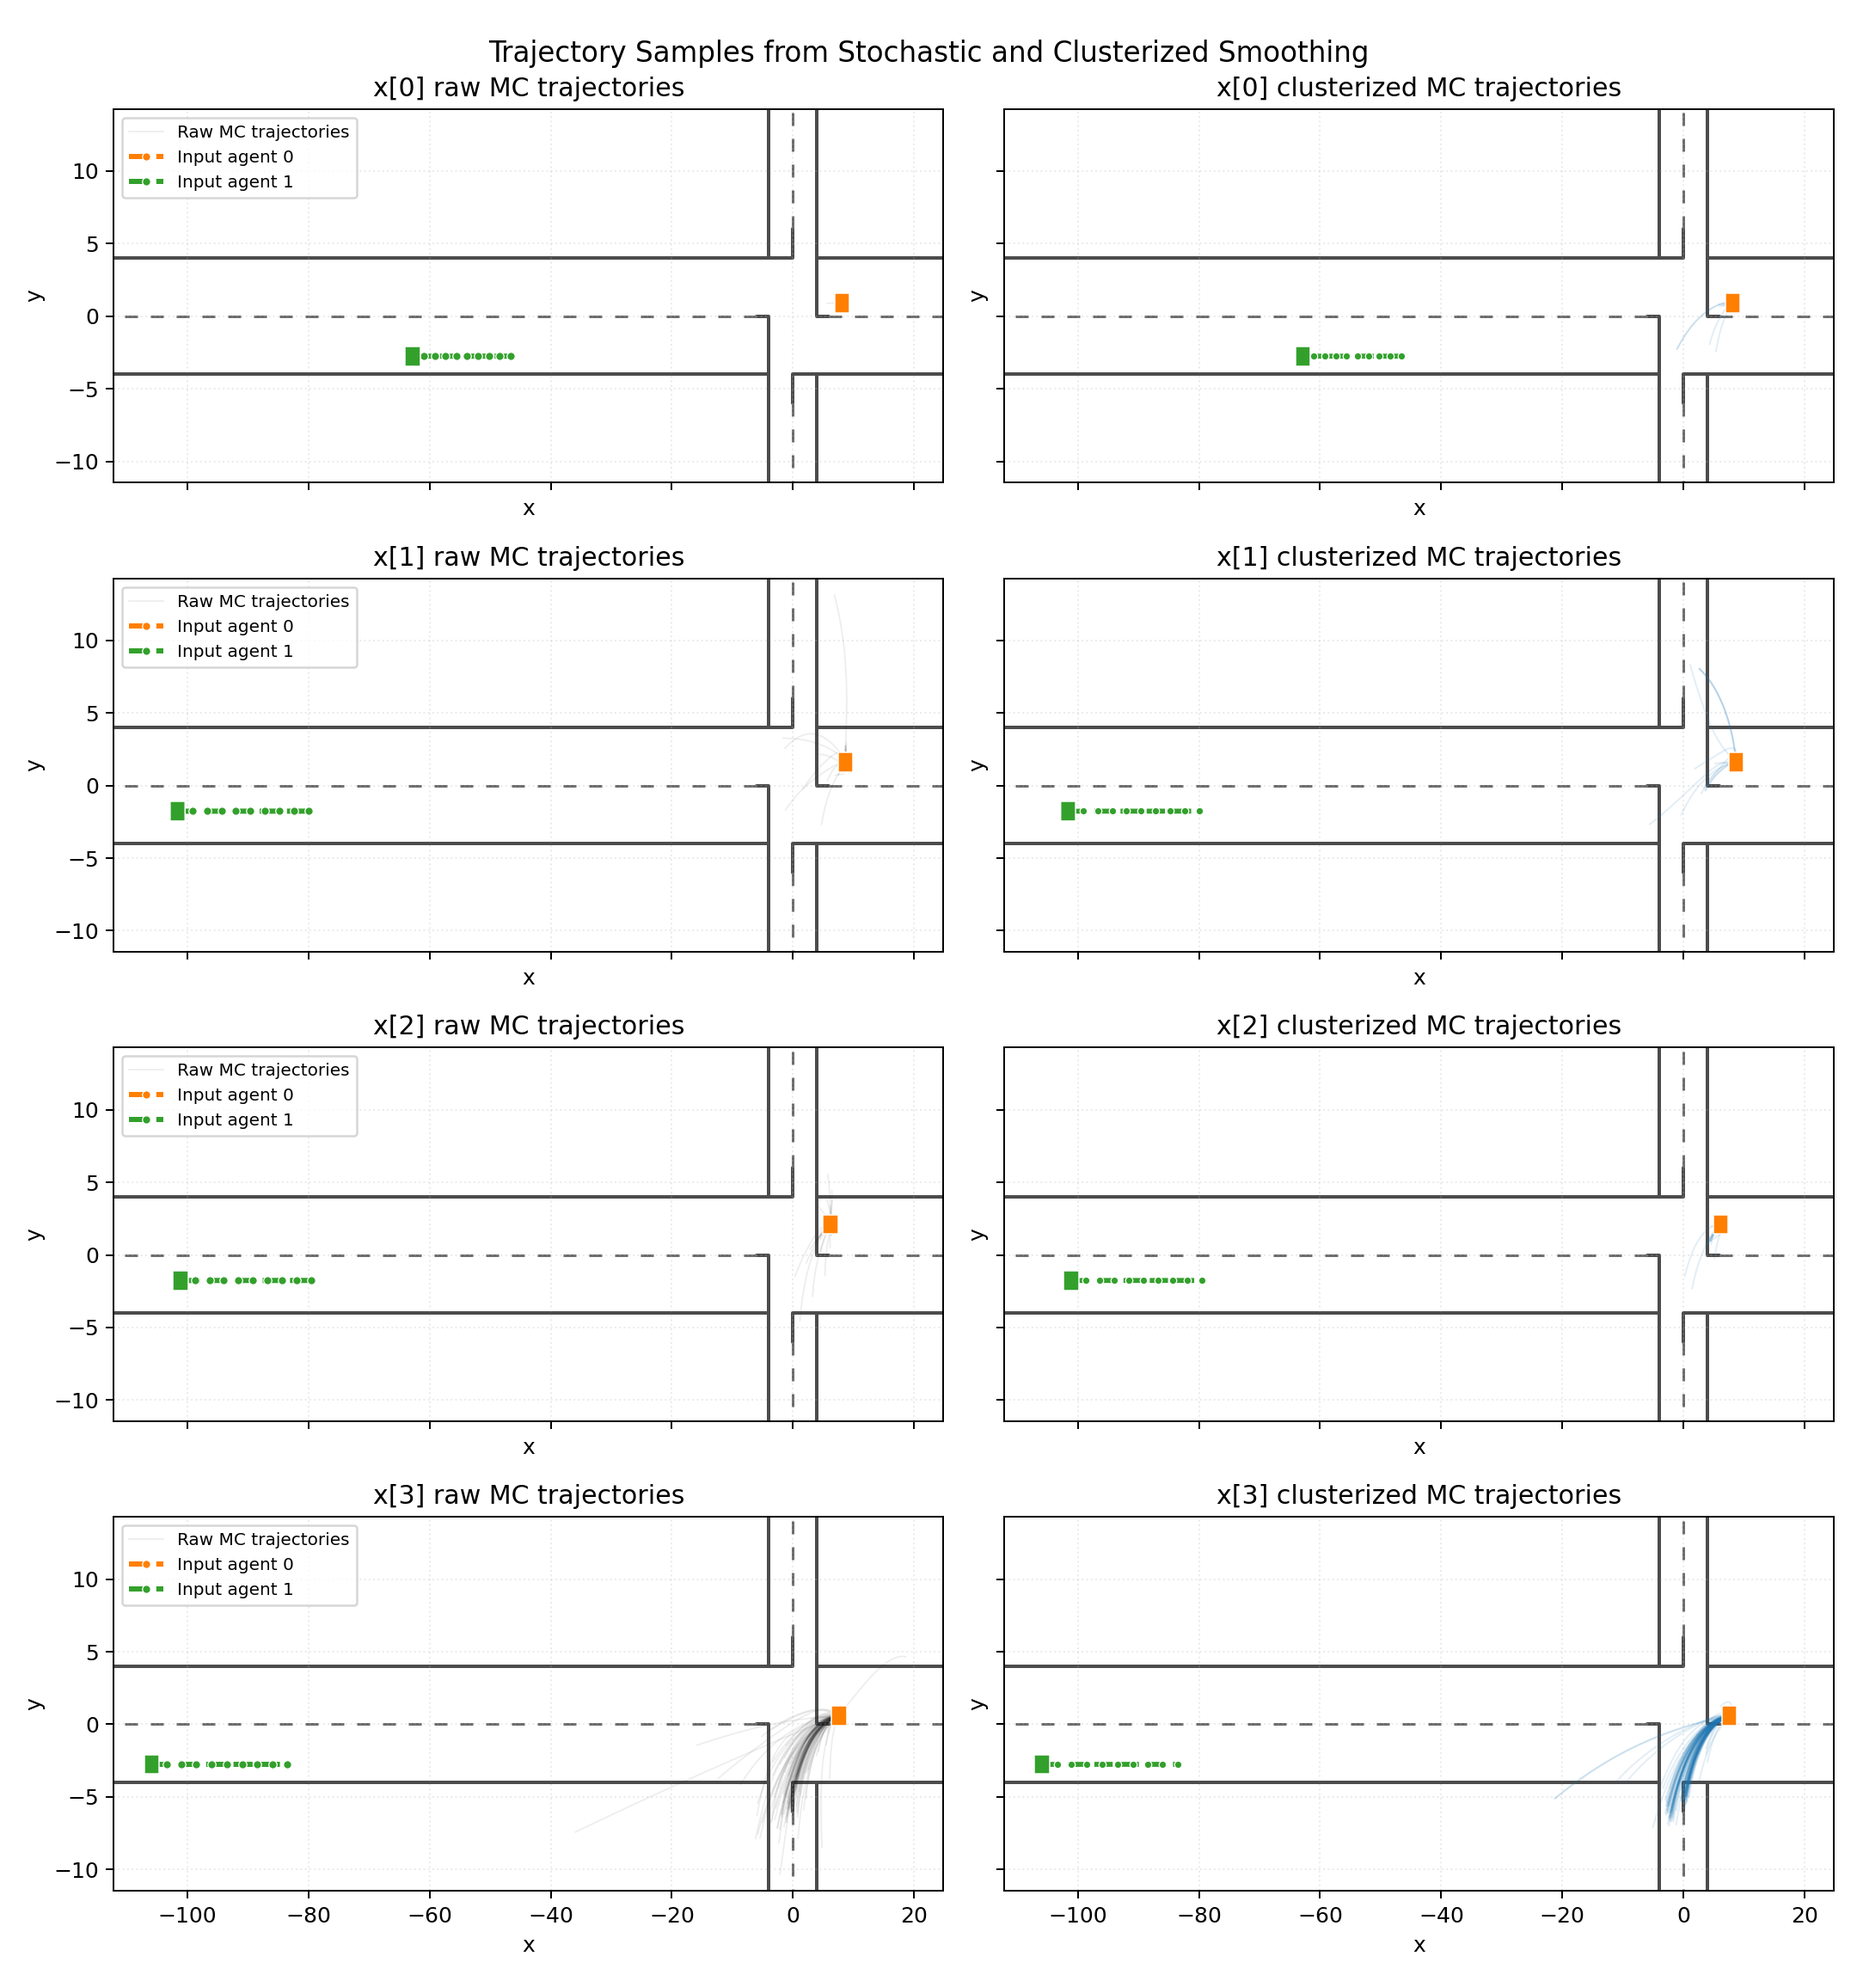
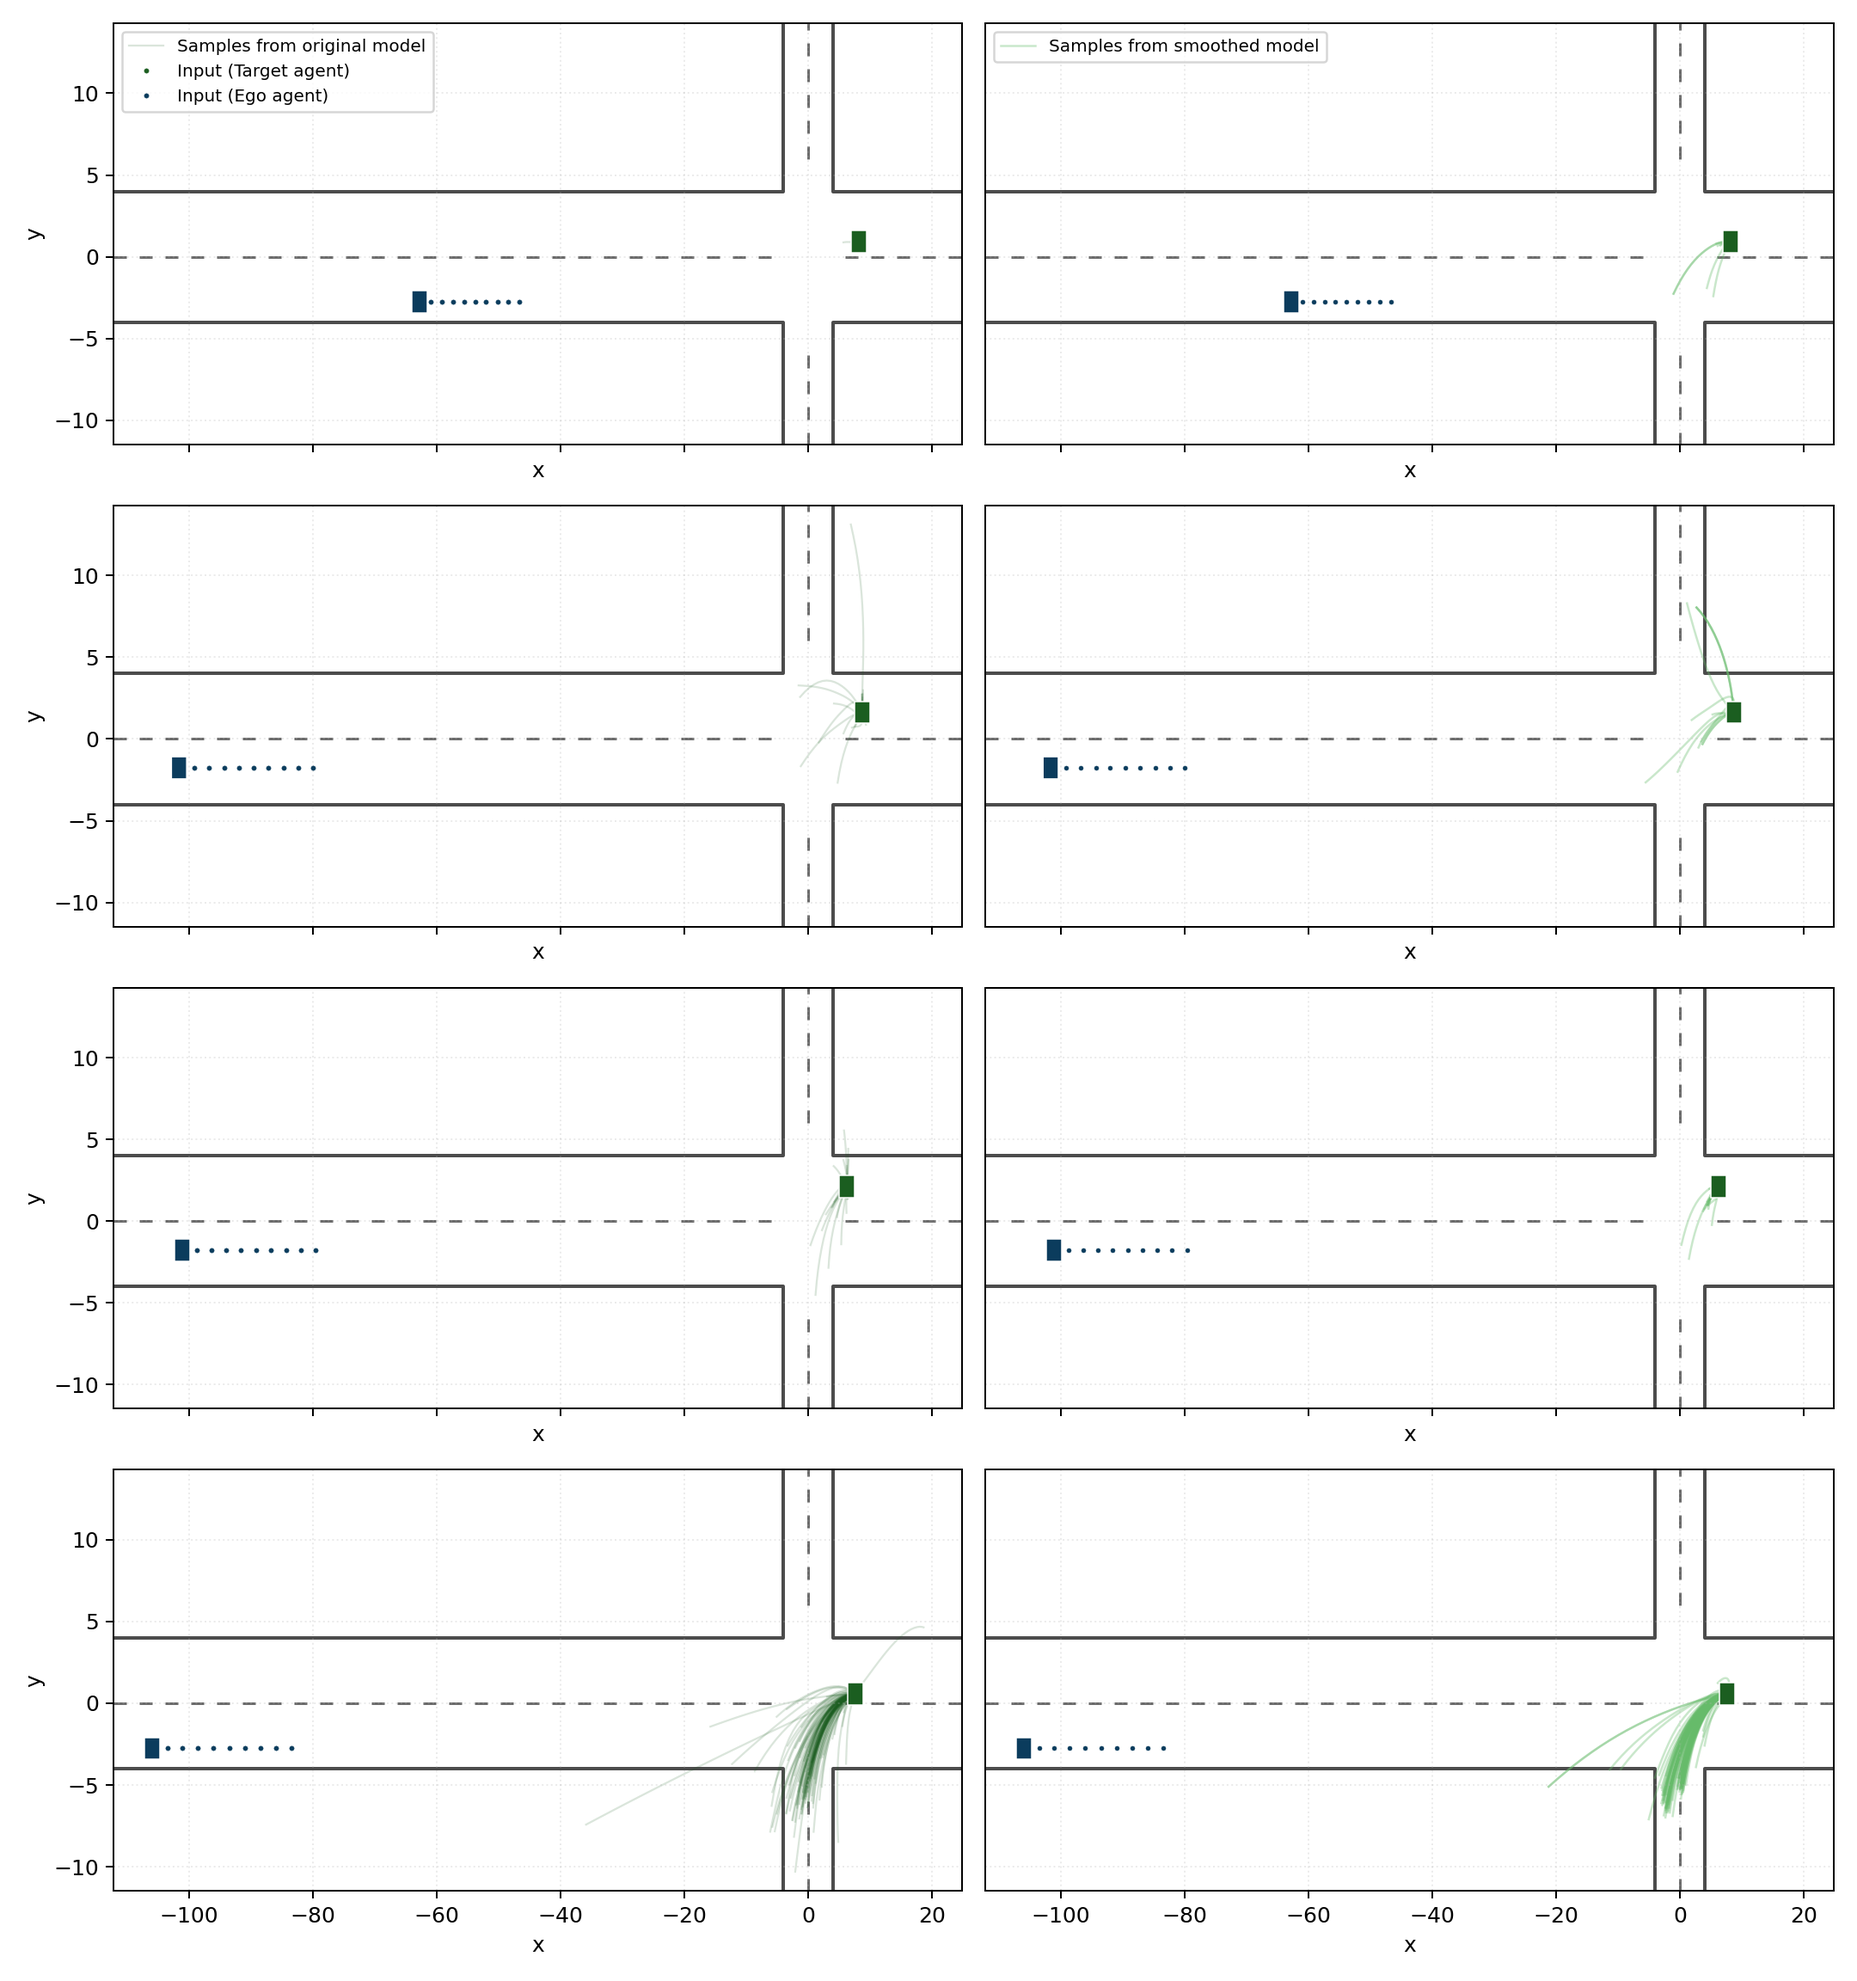
improving plotting

diff --git a/experiments/plotting.py b/experiments/plotting.py
@@ -126,11 +126,6 @@ def _plot_street_marks(ax: plt.Axes, x_extent: float, y_extent: float) -> None:
 	lines_solid.append(np.array([[-x_extent, 4], [-4, 4], [-4, y_extent]]))
 	lines_solid.append(np.array([[x_extent, 4], [4, 4], [4, y_extent]]))
 
-	lines_solid.append(np.array([[-4, -4], [-4, 0], [-6, 0]]))
-	lines_solid.append(np.array([[4, 4], [4, 0], [6, 0]]))
-	lines_solid.append(np.array([[4, -4], [0, -4], [0, -6]]))
-	lines_solid.append(np.array([[-4, 4], [0, 4], [0, 6]]))
-
 	lines_dashed = []
 	lines_dashed.append(np.array([[0, 6], [0, y_extent]]))
 	lines_dashed.append(np.array([[0, -6], [0, -y_extent]]))
@@ -261,63 +256,52 @@ def plot_trajectory_samples(
 			ax_raw.plot(
 				traj[:, 0],
 				traj[:, 1],
-				color="#222222",
-				alpha=0.08,
-				linewidth=0.7,
+				color="#1B5E20",
+				alpha=0.16,
+				linewidth=0.9,
 				zorder=1,
-				label="Raw MC trajectories" if j == 0 else None,
+				label="Samples from original model" if j == 0 else None,
 			)
 
 			traj_cluster = clusterized[i, j]
-			ax_cluster.plot(traj_cluster[:, 0], traj_cluster[:, 1], color="#1F78B4", alpha=0.12, linewidth=0.8)
+			ax_cluster.plot(
+				traj_cluster[:, 0],
+				traj_cluster[:, 1],
+				color="#66BB6A",
+				alpha=0.35,
+				linewidth=1.0,
+				zorder=1,
+				label="Samples from smoothed model" if j == 0 else None,
+			)
 
-		agent_colors = ("#FF7F00", "#33A02C")
+		agent_colors = ("#1B5E20", "#0B3C5D")
 		for agent_idx in range(num_input_agents):
 			agent_traj = x_traj[i, agent_idx]
 			color = agent_colors[agent_idx % len(agent_colors)]
-			label = f"Input agent {agent_idx}"
-			# White underlay keeps dashed inputs visible on top of dense MC bundles.
-			ax_raw.plot(
-				agent_traj[:, 0],
-				agent_traj[:, 1],
-				color="#FFFFFF",
-				linestyle="--",
-				linewidth=3.8,
-				zorder=5,
-			)
+			label = "Input (Target agent)" if agent_idx == 0 else "Input (Ego agent)"
 			ax_raw.plot(
 				agent_traj[:, 0],
 				agent_traj[:, 1],
 				color=color,
-				linestyle="--",
-				linewidth=2.4,
+				linestyle="None",
 				marker="o",
-				markersize=3.8,
+				markersize=2.1,
 				markerfacecolor=color,
-				markeredgecolor="#FFFFFF",
-				markeredgewidth=0.5,
+				markeredgecolor=color,
+				markeredgewidth=0.2,
 				zorder=6,
 				label=label,
 			)
 			ax_cluster.plot(
 				agent_traj[:, 0],
 				agent_traj[:, 1],
-				color="#FFFFFF",
-				linestyle="--",
-				linewidth=3.6,
-				zorder=4,
-			)
-			ax_cluster.plot(
-				agent_traj[:, 0],
-				agent_traj[:, 1],
 				color=color,
-				linestyle="--",
-				linewidth=2.3,
+				linestyle="None",
 				marker="o",
-				markersize=3.4,
+				markersize=2.0,
 				markerfacecolor=color,
-				markeredgecolor="#FFFFFF",
-				markeredgewidth=0.5,
+				markeredgecolor=color,
+				markeredgewidth=0.2,
 				zorder=5,
 			)
 
@@ -337,19 +321,20 @@ def plot_trajectory_samples(
 				car_length=car_size,
 			)
 
-		ax_raw.set_title(f"x[{i}] raw MC trajectories")
-		ax_cluster.set_title(f"x[{i}] clusterized MC trajectories")
-
 		for ax in (ax_raw, ax_cluster):
 			ax.set_xlim(*x_lim)
 			ax.set_ylim(*y_lim)
 			ax.set_xlabel("x")
-			ax.set_ylabel("y")
 			ax.grid(alpha=0.25, linestyle=":")
 
-		ax_raw.legend(loc="upper left", fontsize=8)
+		ax_raw.set_ylabel("y")
+		ax_cluster.set_ylabel("")
+		ax_cluster.tick_params(axis="y", which="both", left=False, labelleft=False)
 
-	fig.suptitle("Trajectory Samples from Stochastic and Clusterized Smoothing", fontsize=13)
+		if i == 0:
+			ax_raw.legend(loc="upper left", fontsize=8)
+			ax_cluster.legend(loc="upper left", fontsize=8)
+
 	fig.tight_layout()
 	fig_path = output_dir / "trajectory_samples_comparison.png"
 	fig.savefig(fig_path, dpi=180)
